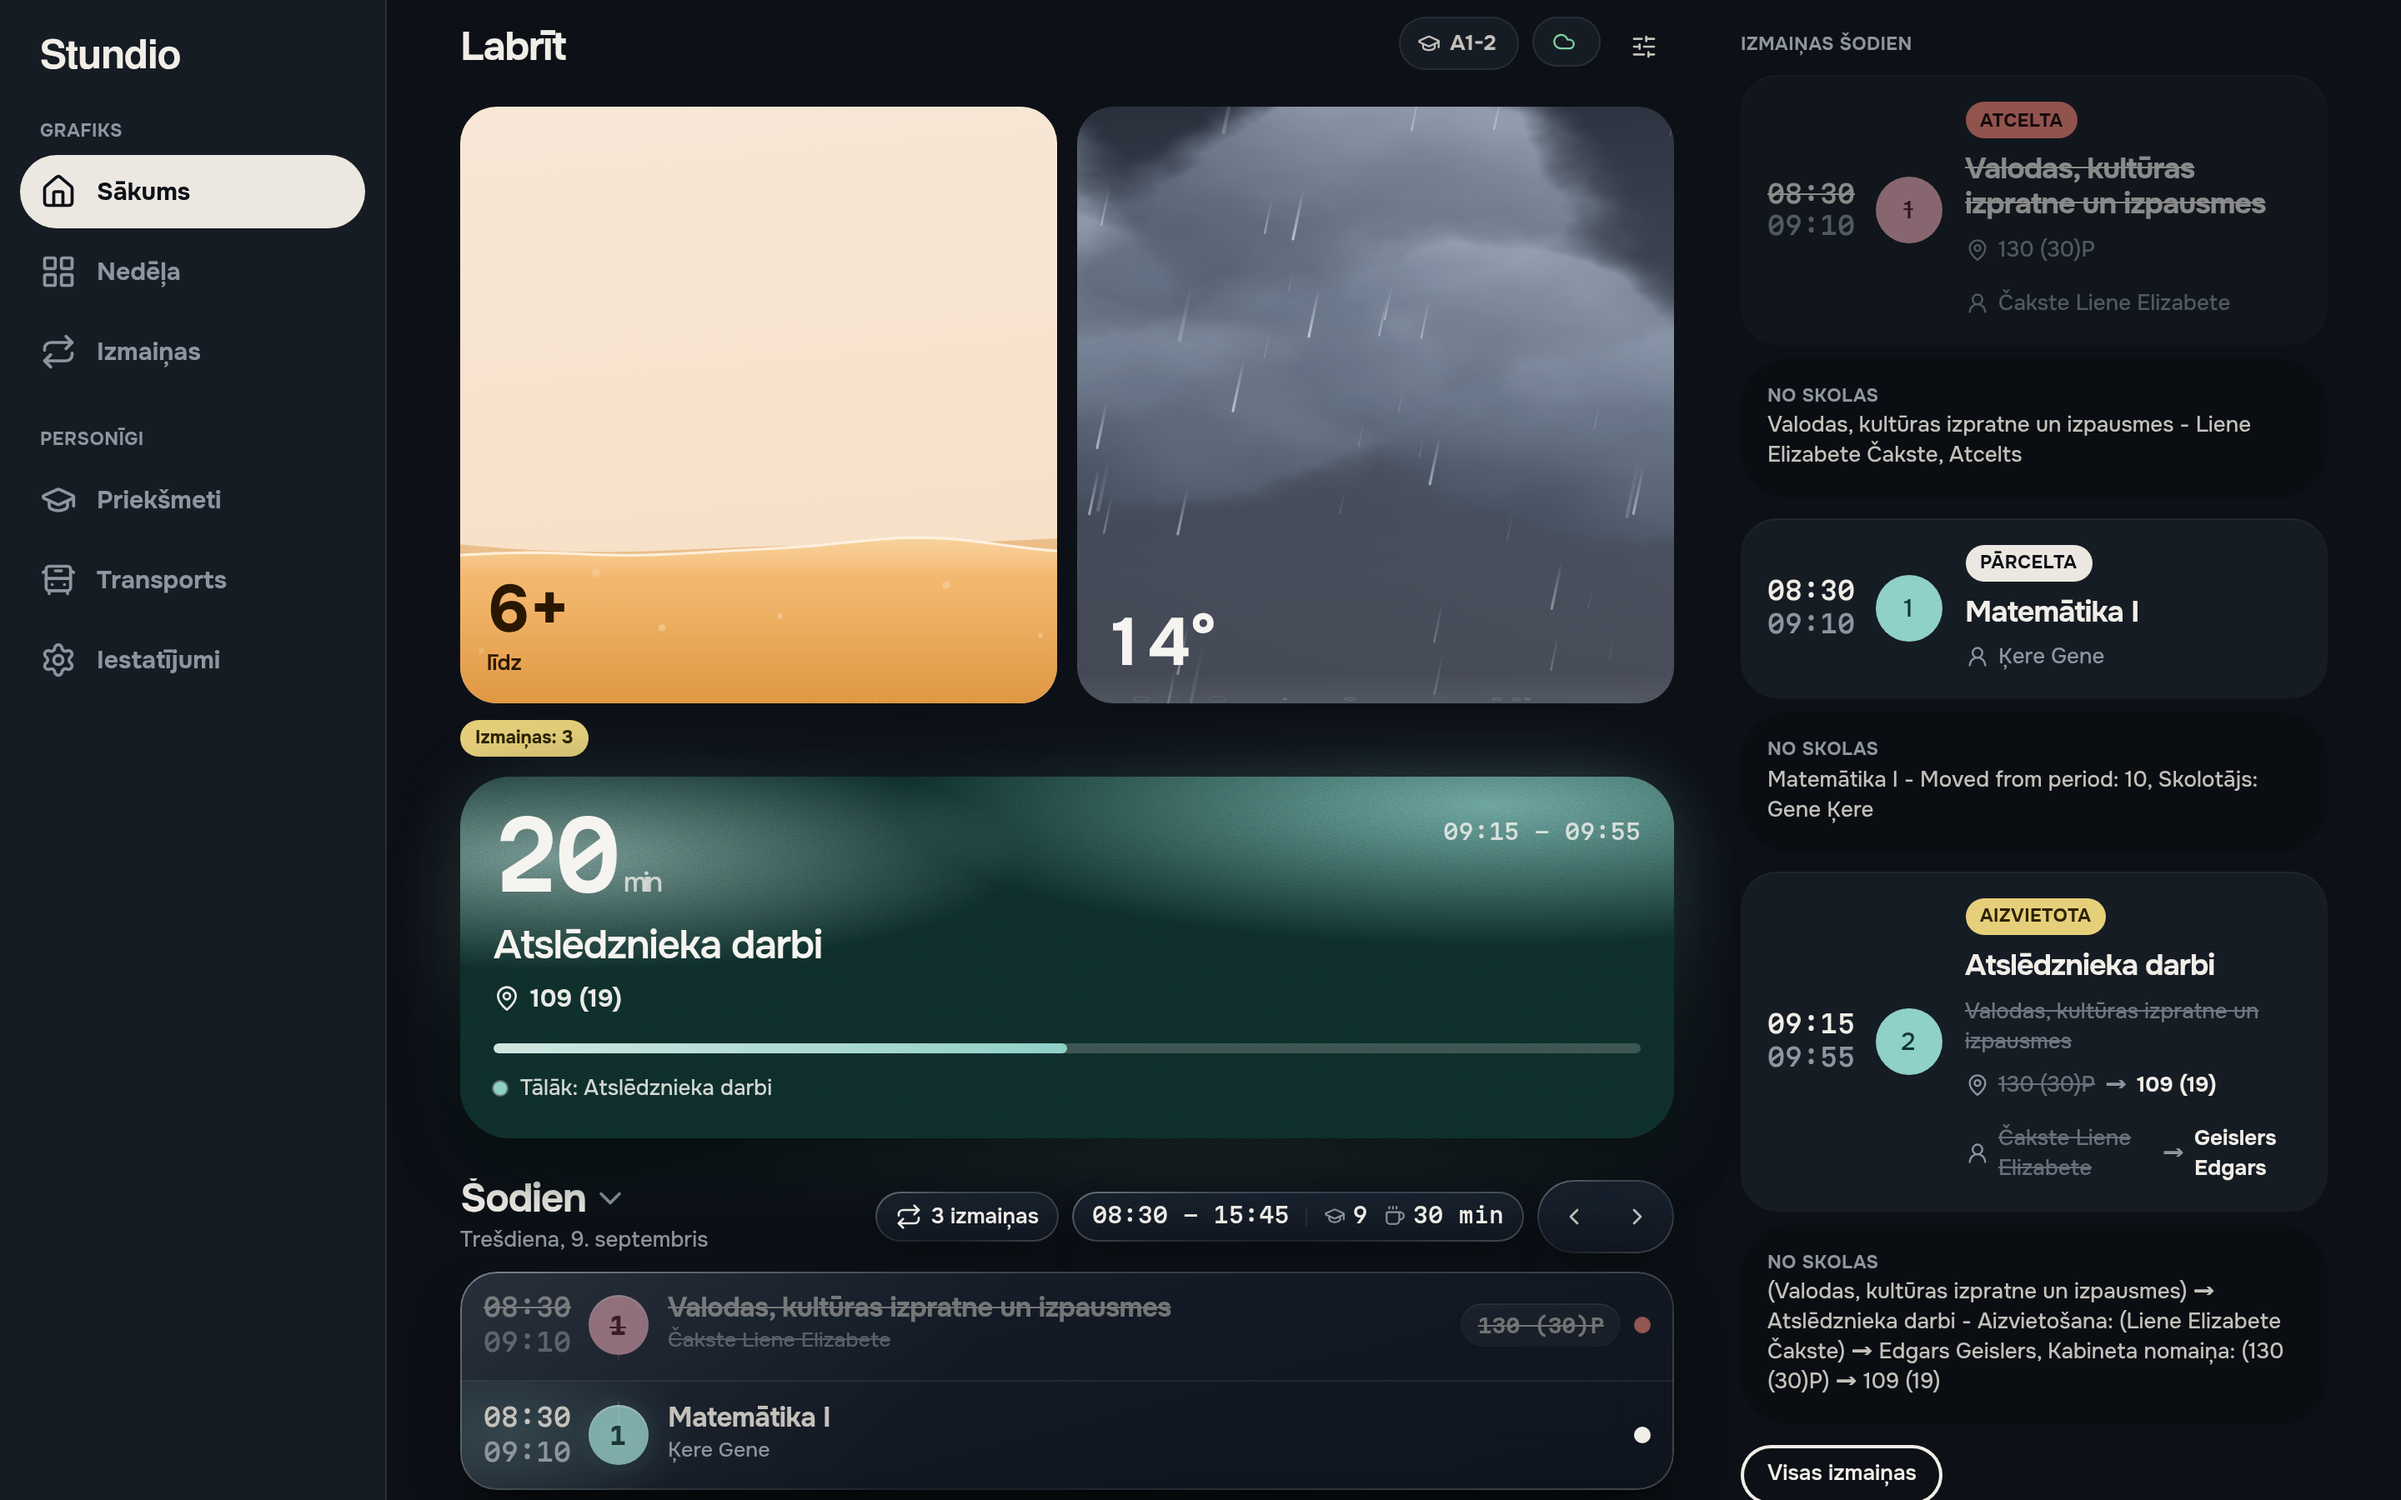
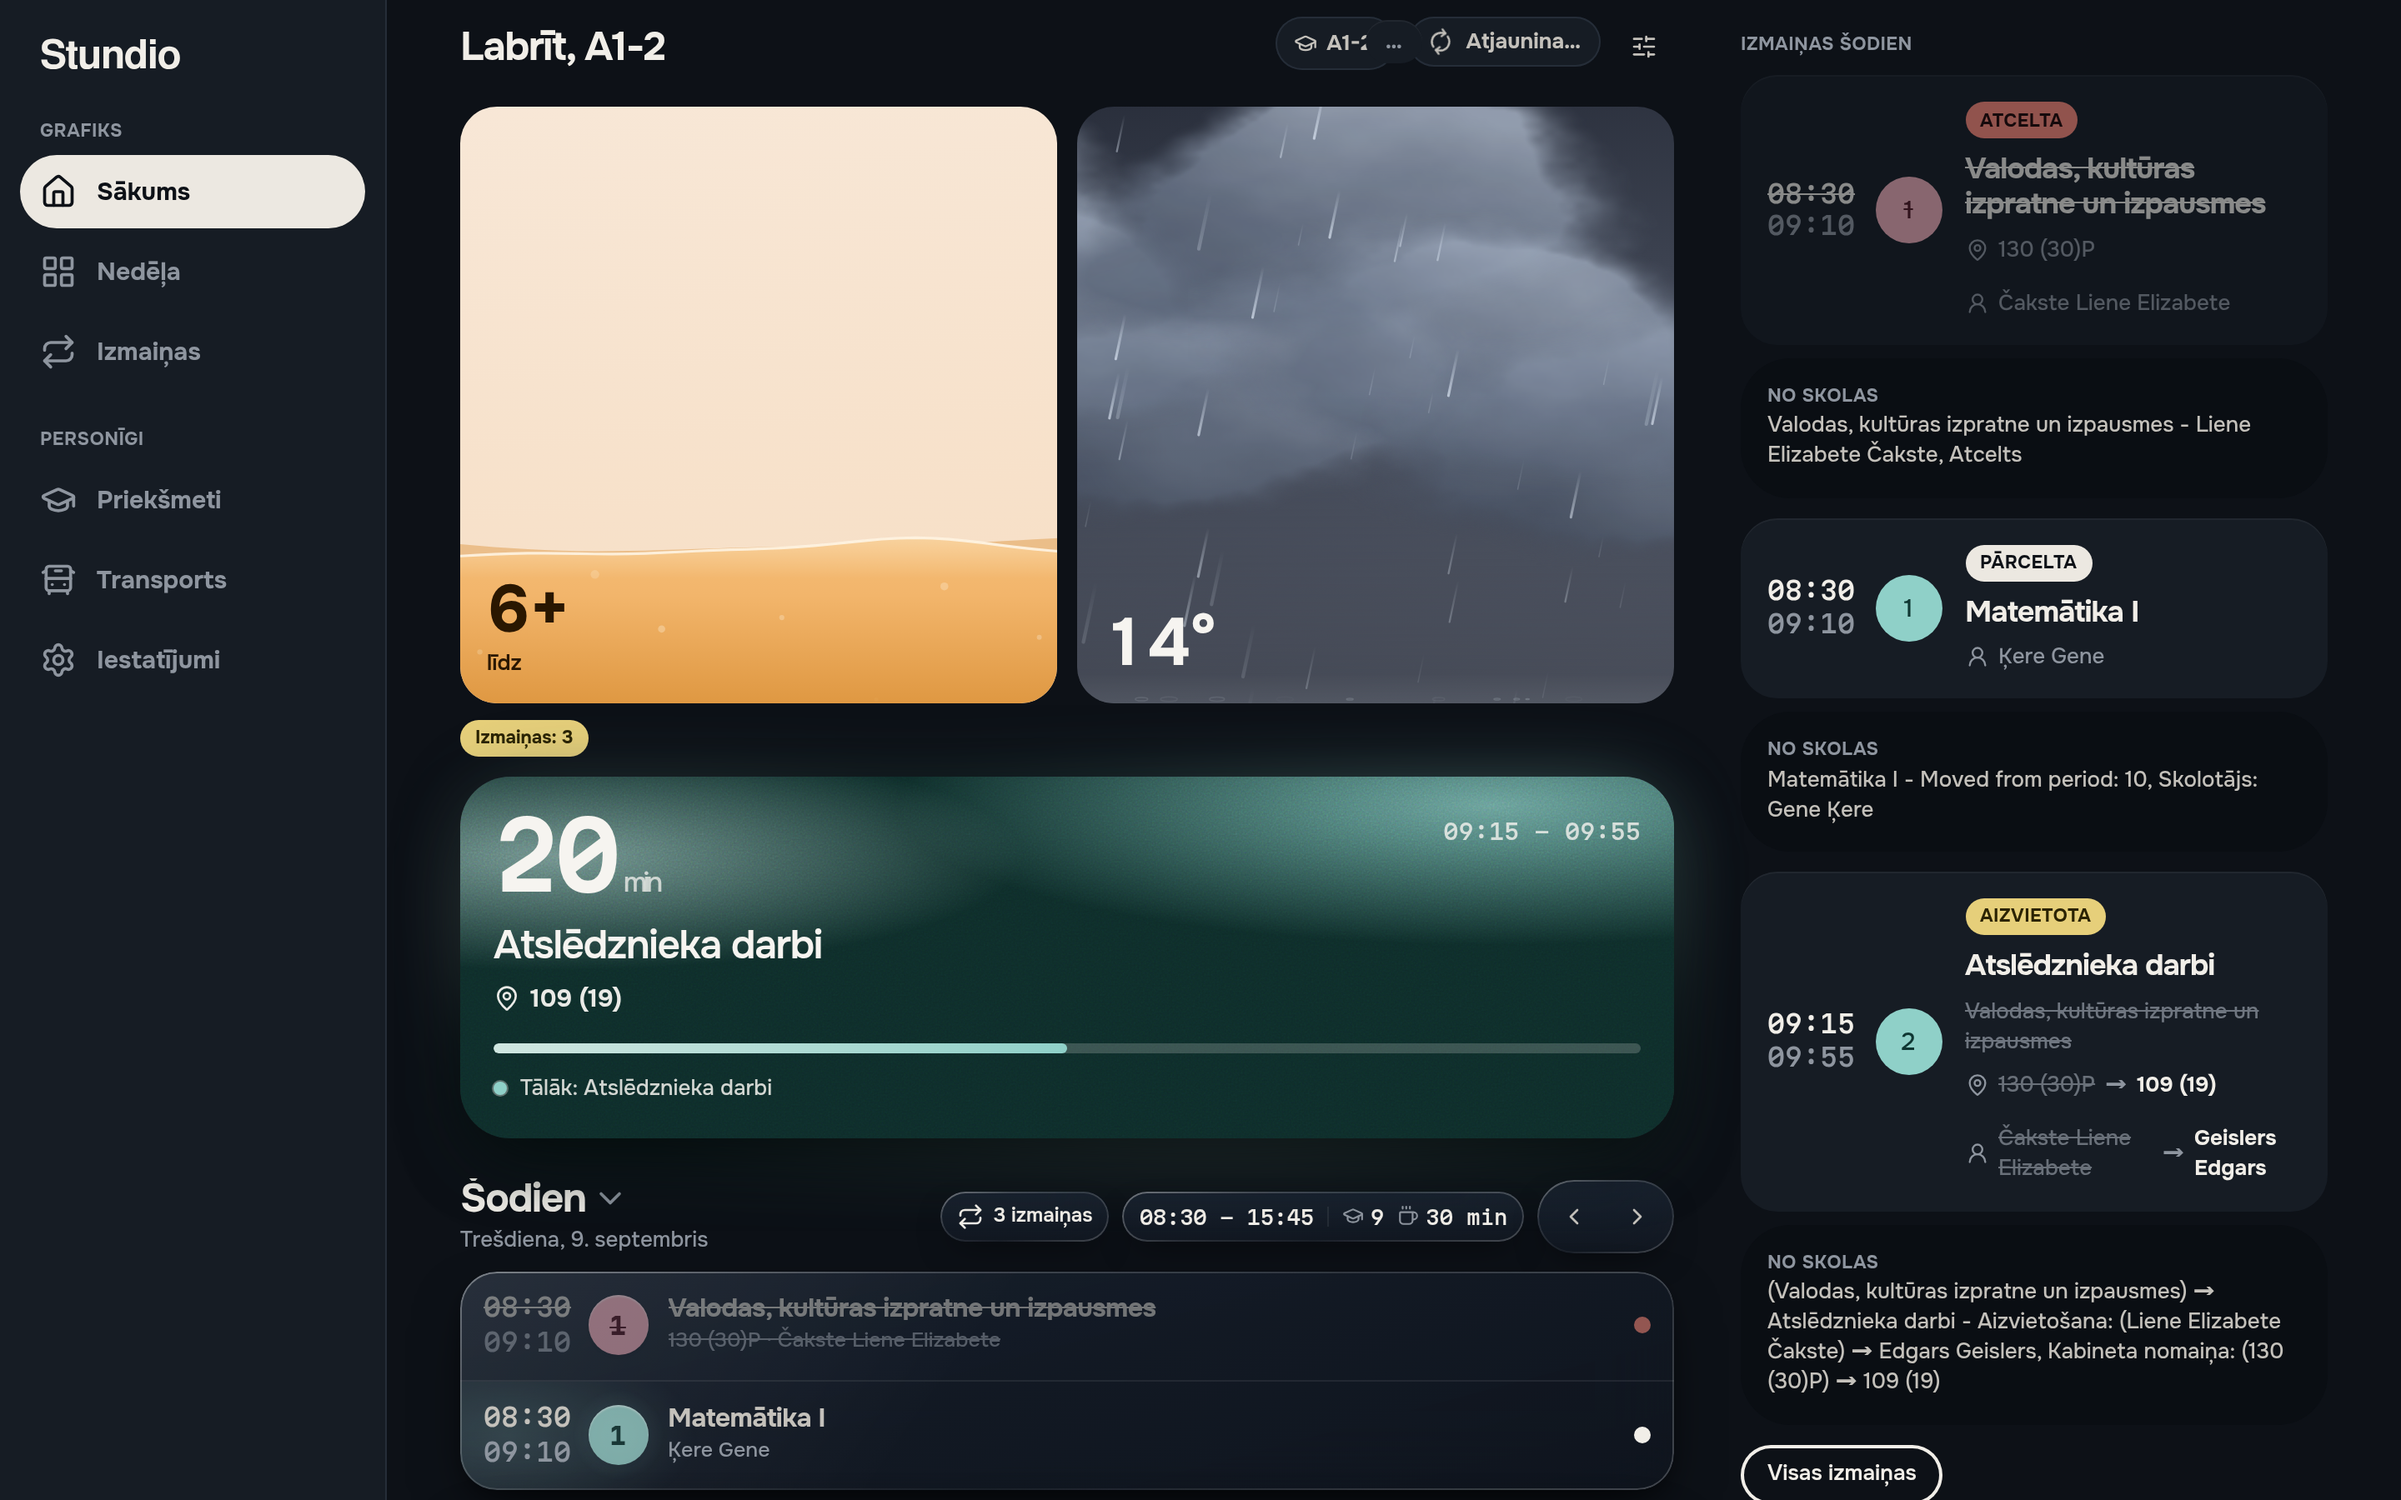
docs: update design system, agent guide, and review screenshots

diff --git a/AGENT.md b/AGENT.md
@@ -136,7 +136,7 @@ CapacitorHttp → lib/edupage (client → normalize/substitutions → select →
   with HTML. The canonical host is `app.stundio.lv`; an inline script in `index.html` sends
   browser tabs on the old `stundio.pages.dev` there. Never a server redirect: an app installed
   from the old host would leave its origin and show the browser's URL bar; `pwa.test.ts` guards all of it.
-- **`src/ui/screens/home-view/`** — the Home tab (formerly the Day view), in two blocks. Top, always about *today*: a greeting top bar (`home-top-bar.tsx`), then `home-brief.tsx` — a 2-column square tile grid with `school-tile.tsx` + `school-backdrop.tsx` + `school-fluid-canvas.ts` + `device-tilt.ts` (lamp-tinted rising fluid canvas tracking `lib/schedule`'s `schoolDayProgress` over `schoolCountdown`, tilting up to ±28° with `devicemotion` gravity and a one-time iOS permission prompt on tile tap, expanding horizontally to `h:mm` on tap with a damped slosh impulse and auto-collapsing after 6 s; later browsed days show that day's start time; finished/free days show resting faces; full sentence stays in `aria-label`) and `weather-tile.tsx` + `weather-backdrop.tsx` (temperature over an animated CSS sky from `lib/weather`'s `weatherScene`, following later browsed days within the forecast), a single changes chip underneath when relevant, and the glance banner (now / next, or tomorrow's preview once the day is over). Bottom, the day browser: `day-header.tsx` (date picker, arrows, "to today", changes button), the outline, the lesson list, then building and school notes. Swipe/arrow paging lives on the bottom block only and moves only it. The offline notice sits above the top block; a blocked-notifications notice (`NotificationBlockedNotice`) sits with the app-level prompts. The push contract (`?tab=day`, `NAVIGATE_DAY`) keeps its old wire names; the app maps them to `home`.
+- **`src/ui/screens/home-view/`** — the Home tab (formerly the Day view), in two blocks. Top, always about *today*: a greeting top bar (`home-top-bar.tsx`), then `home-brief.tsx` — a 2-column square tile grid with `school-tile.tsx` + `school-backdrop.tsx` + `school-fluid-canvas.ts` + `device-tilt.ts` (lamp-tinted rising fluid canvas tracking `lib/schedule`'s `schoolDayProgress` over `schoolCountdown`, tilting up to ±28° with `devicemotion` gravity and a one-time iOS permission prompt on tile tap, expanding horizontally to `h:mm` on tap with a damped slosh impulse and auto-collapsing after 6 s; later browsed days show that day's start time; finished/free days show resting faces; full sentence stays in `aria-label`) and `weather-tile.tsx` + `weather-backdrop.tsx` + `weather-ambient.tsx` (temperature over an animated 2D Canvas sky from `lib/weather`'s `weatherScene`, following later browsed days within the forecast and washing the screen backdrop via `WeatherAmbient` while expanded), a single changes chip underneath when relevant, and the glance banner on wide layouts (docked into `NowDock` above `TabBar` on phones; tomorrow's preview `day-tomorrow.tsx` once the day is over). Bottom, the liquid-glass day browser: `day-header.tsx` + `day-summary.tsx` (collapsing redundant "Today" title/date rows on phones into a single compact horizon strip with unified time-span + lesson/free facts, browsed-day title when away from today, and changes shortcut; full `DatePicker` + chevrons on wide layouts), `day-lesson-list.tsx` + `day-glass-lesson.tsx` (continuous frosted-glass schedule slabs `.u-schedule-glass` refracting subject caustics and `WeatherAmbient`, linked along the left period-jewel spine by an optical thread with right-aligned room capsules, splitting at free-period `day-gap.tsx`, building-hop `DayBuildingBridge`, between-lesson `day-now-marker.tsx`, and lifting the active lesson onto its subject's deep grainy tone field (`.u-tone-field u-tone-field-deep`, matching the featured `SubjectCard`)), then glass building footnotes (`day-status.tsx`) and school notes (`day-school-notes.tsx`). Swipe/arrow paging lives on the bottom block only and moves only it. The offline notice sits above the top block; a blocked-notifications notice (`NotificationBlockedNotice`) sits with the app-level prompts. The push contract (`?tab=day`, `NAVIGATE_DAY`) keeps its old wire names; the app maps them to `home`.
 - **`src/ui/screens/week-view/`** — the Week tab: a Mon–Fri grid that pages by *week* (swipe or arrow keys, via `ui/hooks/useSwipePager.ts` — the same gesture rules as the Home day browser: axis lock, edge guard for the OS back gesture, 56 px threshold, cross-fade under reduced motion).
 - **`src/lib/weather/`** — Open-Meteo forecast for central Riga (keyless, CORS-friendly plain `fetch`; city coordinates only, never the device's location), a never-throwing parser, `weatherOutlook` (this hour's conditions, today's range, one hint for the school hours ahead) and `dayWeatherOutlook` (a later day: its condition and range, mid-school-day temperature, one hint for its whole school day). The forecast covers 7 days so a week of paging stays covered. The store fetches it alongside `refresh()` (30-min TTL, 5 min on a pull — never polled; nothing at all while `settings.weatherEnabled` is off) and caches it in the IndexedDB `weather` store.
 - **`src/ui/`** — app screens, hooks, i18n, and theme mapping. No router: primary tabs plus modals,

diff --git a/DESIGN.md b/DESIGN.md
@@ -644,28 +644,42 @@ rather than hints.
   faster on `--dur-fast`, entering with a 35ms lead-in so the label opens as the pill arrives).
   When the active tab lives inside `MoreSheet`, the More slot holds the active pill and
   `aria-current="page"`.
-- **Date dock:** on Home and Week (phone layout), a compact 44px matching frosted-glass pill
-  (`.u-nav-glass`) floats 8px above the bottom bar in the same fixed stack, holding previous/next
-  stepping, the calendar `DatePicker`, and a "Today" jump when away from today/this week.
+- **Date dock & Now dock:** on Home and Week (phone layout), the contextual slot floating 8px above
+  the bottom bar morphs between `NowDock` (52px deep grainy subject capsule with live progress
+  filament and next-subject scratch-through when a lesson is live or upcoming) and `DateDock` (44px
+  frosted-glass pill `.u-nav-glass` holding previous/next stepping, the calendar `DatePicker`, a
+  "Today" jump when away, and a countdown chip to flip back to `NowDock`).
 - **Status bar:** on phone layout, a fixed 36px read-only strip below the top safe-area inset shows
   the active class/teacher on the left and sync freshness (`role="status"`) on the right over
   `bg-app` with a soft fade-out skirt. No interactive controls live in the status bar; manual
   refresh is pull-to-refresh and identity switching lives in `MoreSheet`.
-- **Top bar:** 56px, scrolls with content, optional uppercase eyebrow above a Display-2 title, with
-  `app` and `brand` (on-blue) tones. The title is a real `<h1>`, not styled text — a screen with no
-  heading has an empty heading list.
+- **Top bar:** 56px, scrolls with content, Display-2 title, with `app` and `brand` tones. The title
+  is a real `<h1>`, not styled text — a screen with no heading has an empty heading list.
 - **Segmented tabs:** a sunken pill track (4px padding) with a 36px white pill on the selected
   segment, carrying `shadow-card` so the selection lifts out of its groove; unselected labels are
   muted bold. Exposed as a **`radiogroup` with roving tabindex**, not a tablist — the segments pick a
   value (theme, language, building) rather than swapping a panel, and arrow keys move between them.
 
-### Day Paging
+### Home Day Schedule (Liquid-Glass Slabs)
 
-The Day screen provides left/right chevron buttons flanking the date picker in the top bar (`IconButton`
-`variant="bare"` `size="sm"`), matching the Week screen's navigation pattern. Swiping left/right
-anywhere below the top bar also pages to the adjacent day, with a small same-direction slide (16px,
-`--dur-base`, `--ease-standard`); arrow keys do the same for keyboard accessibility. Jumping to an
-arbitrary date uses the date picker popover, or the Week screen.
+On the Home screen, the Day schedule uses continuous frosted-glass slabs (`.u-schedule-glass`) cut
+from the same `1px` directional specular-rim grammar (`mask-composite: exclude`) as `BottomNav` and
+`DateDock`, opening up to refract `WeatherAmbient` when the weather tile expands:
+
+- **Collapsed phone horizon strip:** because `DateDock` and `SchoolTile` already show today's date
+  and countdown on phones, `DayHeader` collapses redundant "Today" and long-date rows into a single
+  compact horizon row holding the unified time-span + lesson/free-time capsule (`.u-schedule-glass-chip`),
+  the browsed day title when away from today, and the changes shortcut — pulling lessons high into
+  the first viewport. Wide layouts keep the inline `DatePicker` and day-stepping chevrons.
+- **Continuous slabs & connectors:** consecutive lessons in the same building share one glass slab
+  divided by hairlines and linked along the left period-jewel spine by a `1px` optical thread. Free
+  periods (`DayGap`), building switches (`DayBuildingBridge`), and the between-lesson clock
+  (`DayNowMarker`) split the glass into separate slabs; the active lesson lifts out onto its
+  subject's deep grainy tone field (`.u-tone-field u-tone-field-deep`, matching the featured
+  `SubjectCard`, `DayGlance`, and `NowDock`) with a bottom `3px` progress filament.
+- **Three-zone corridor scan:** each row pairs a dusk-toned period jewel (+ optional Martian Mono
+  times) on the left with the subject heading and quiet metadata in the center, and a recessed
+  liquid-glass room capsule (`.u-schedule-room-pill`) + accessible `StatusDot` on the right edge.
 
 ### Week Grid
 
